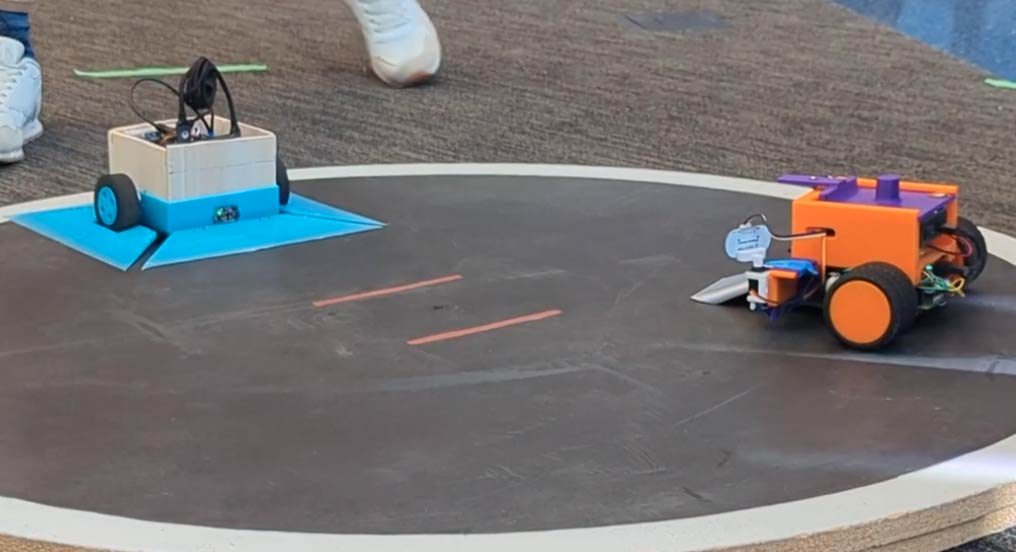
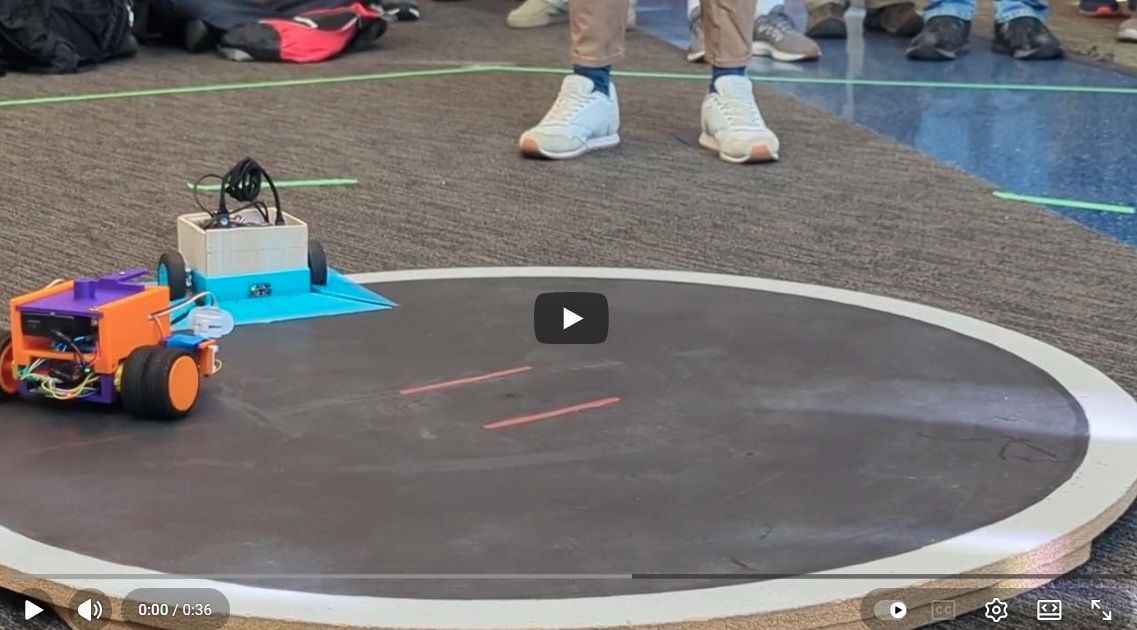
changed header and image

diff --git a/labprofile/index.html b/labprofile/index.html
@@ -24,9 +24,9 @@
             <img class="flag" src="images/Gale_flag.svg"  alt="Gale Flag">
         </div>
         <div class="contact">
-            <a href="https://github.com/JamesDGale83"> github: JamesDGale83</a>
-            <a href="www.linkedin.com/in/james-gale-82b652a3"> Linkedin :james-gale-82b652a3</a>
-            <a href="mailto: jamesdgale@yahoo.com"> email</a>
+            <a href="https://github.com/JamesDGale83" target="_blank"> github: JamesDGale83</a>
+            <a href="https://www.linkedin.com/in/james-gale-82b652a3" target="_blank"> Linkedin :james-gale-82b652a3</a>
+            <a href="mailto: jamesdgale@yahoo.com"> email: jamesdgale@yahoo.com</a>
 
         </div>
 
@@ -576,9 +576,19 @@
             </div>
             
             <div class="club">
-                <h3>Robot Club</h3>
+                <h3>Cyberbotics Competion Club</h3>
+                <h4>Robot Club</h4>
+
+                <div class="MiCS">
+                    <p> MICS 2025 </p>
+            
+                    <img src="images/MICS_2025team.jpg" alt="team 2025" >
+                    
+                </div>
+
                 <div class="MiCS">
                     <p> MICS 2024 </p>
+                    <img src="images/MICS_2024.jpg" alt="team 2024" >
                     <a href="https://youtu.be/0JD72WnYQiY?si=sKYJvLJdFEiEDmgg" class="SumoBot" target="_blank">
                         <img src="images/SumoBot.jpg" alt="Sumobot" >
                     </a>
@@ -592,7 +602,6 @@
                     -->
                     
                         <!-- put team photos here  -->
-                    
 
                 </div>
                 

diff --git a/labprofile/style.css b/labprofile/style.css
@@ -28,12 +28,12 @@ header > .intro {
     
 }
 .contact > a {
-    border: .5rem solid gold;
+    
     padding: .2rem;
     margin-left: 3vw;
     margin-right: 3vw;
-    background-color: gold;
-    color: black;
+    background-color: navy;
+    color: gold;
 }
 
 nav {
@@ -41,12 +41,12 @@ margin-top:1rem ;
     
 }
 nav > a {
-    border: .2rem solid white;
+    border: .2rem solid navy;
     padding: .1rem;
-    background-color: aqua;
+    background-color: navy;
     margin-left: 1vw;
     margin-right:1vw;
-    color: black;
+    color: aqua;
 }
 .flag{
     height: 5rem;
@@ -138,6 +138,11 @@ span.rotate {
 .MICS {
     display: inline-block;
 }
+.MiCS > img {
+    width: 20vw;
+    max-width: 25vh;
+}
+
 .USMAP > img{
     max-height: 40vh;
     max-width: 80vh;
